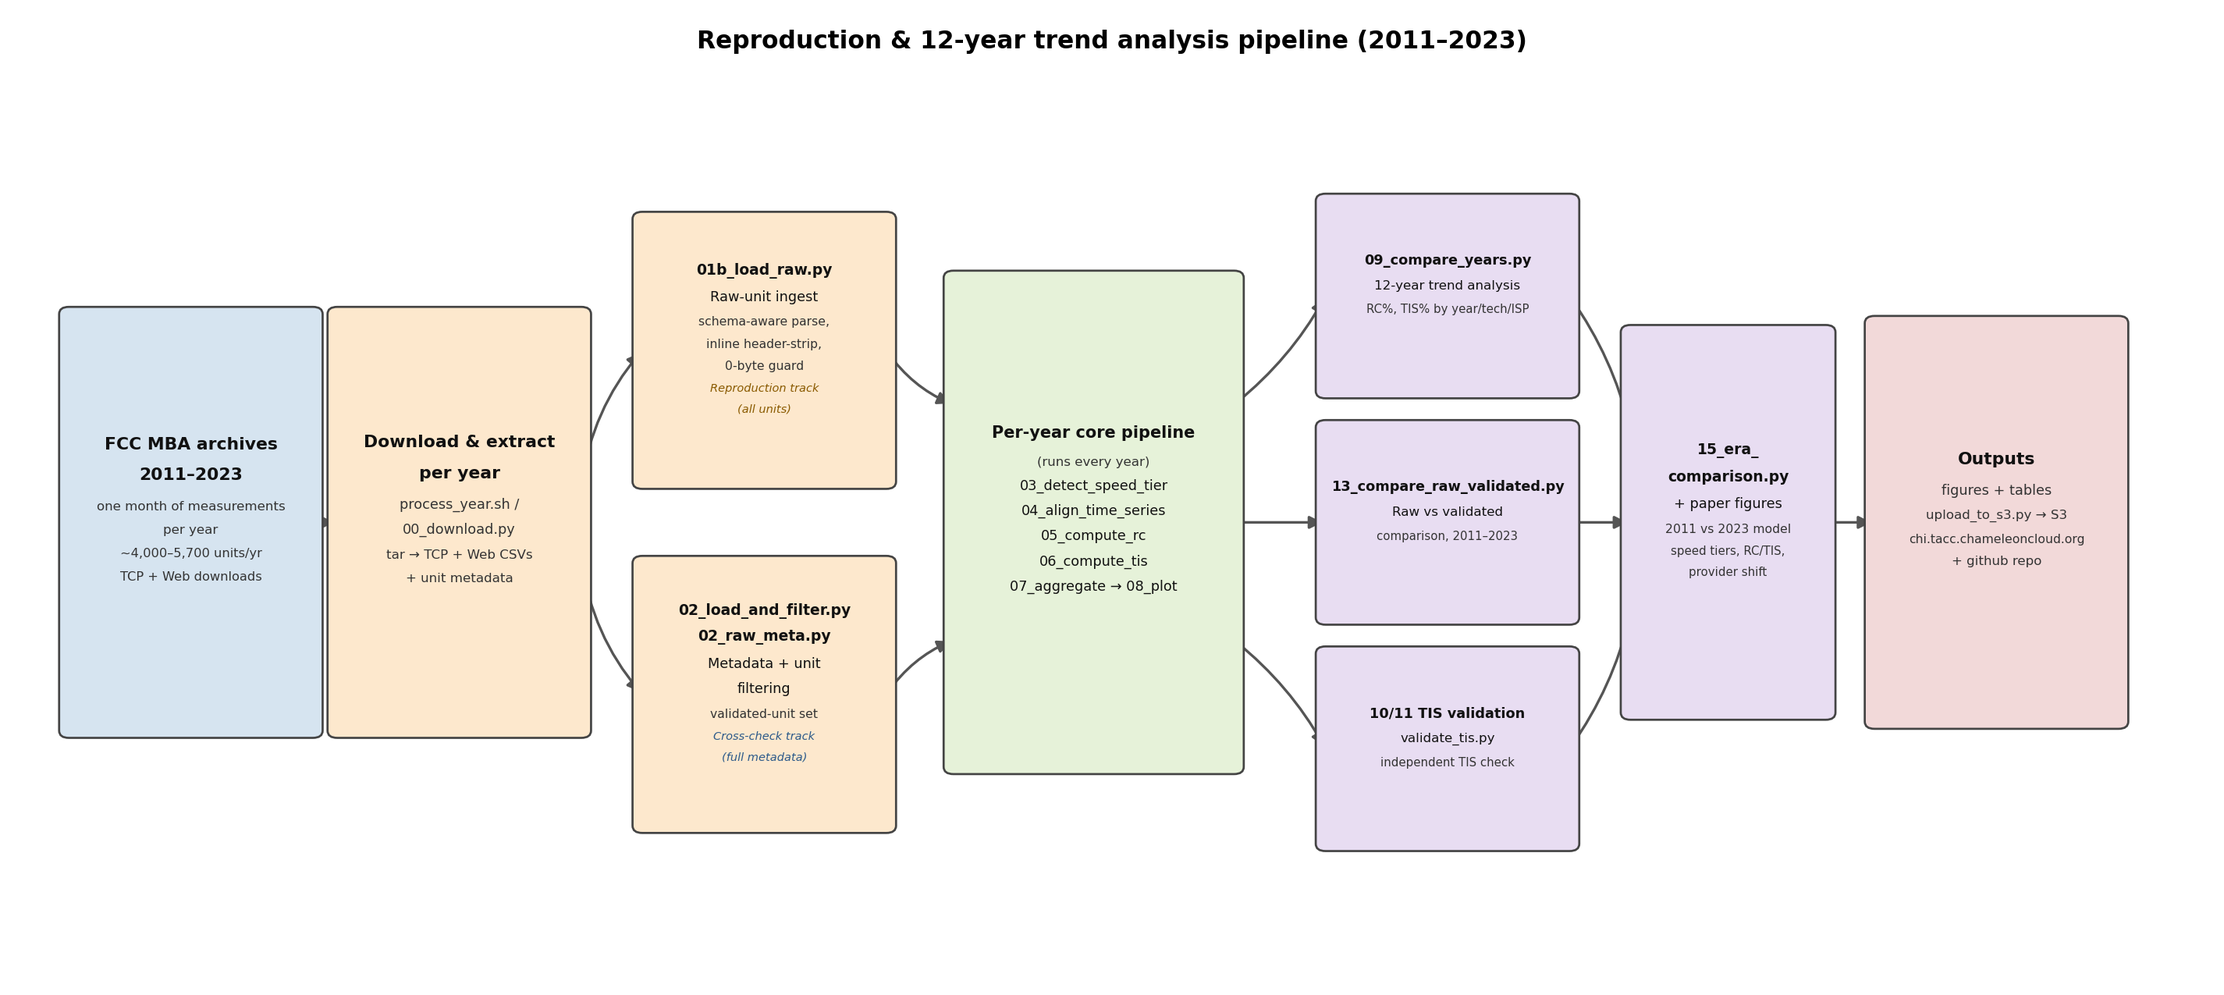
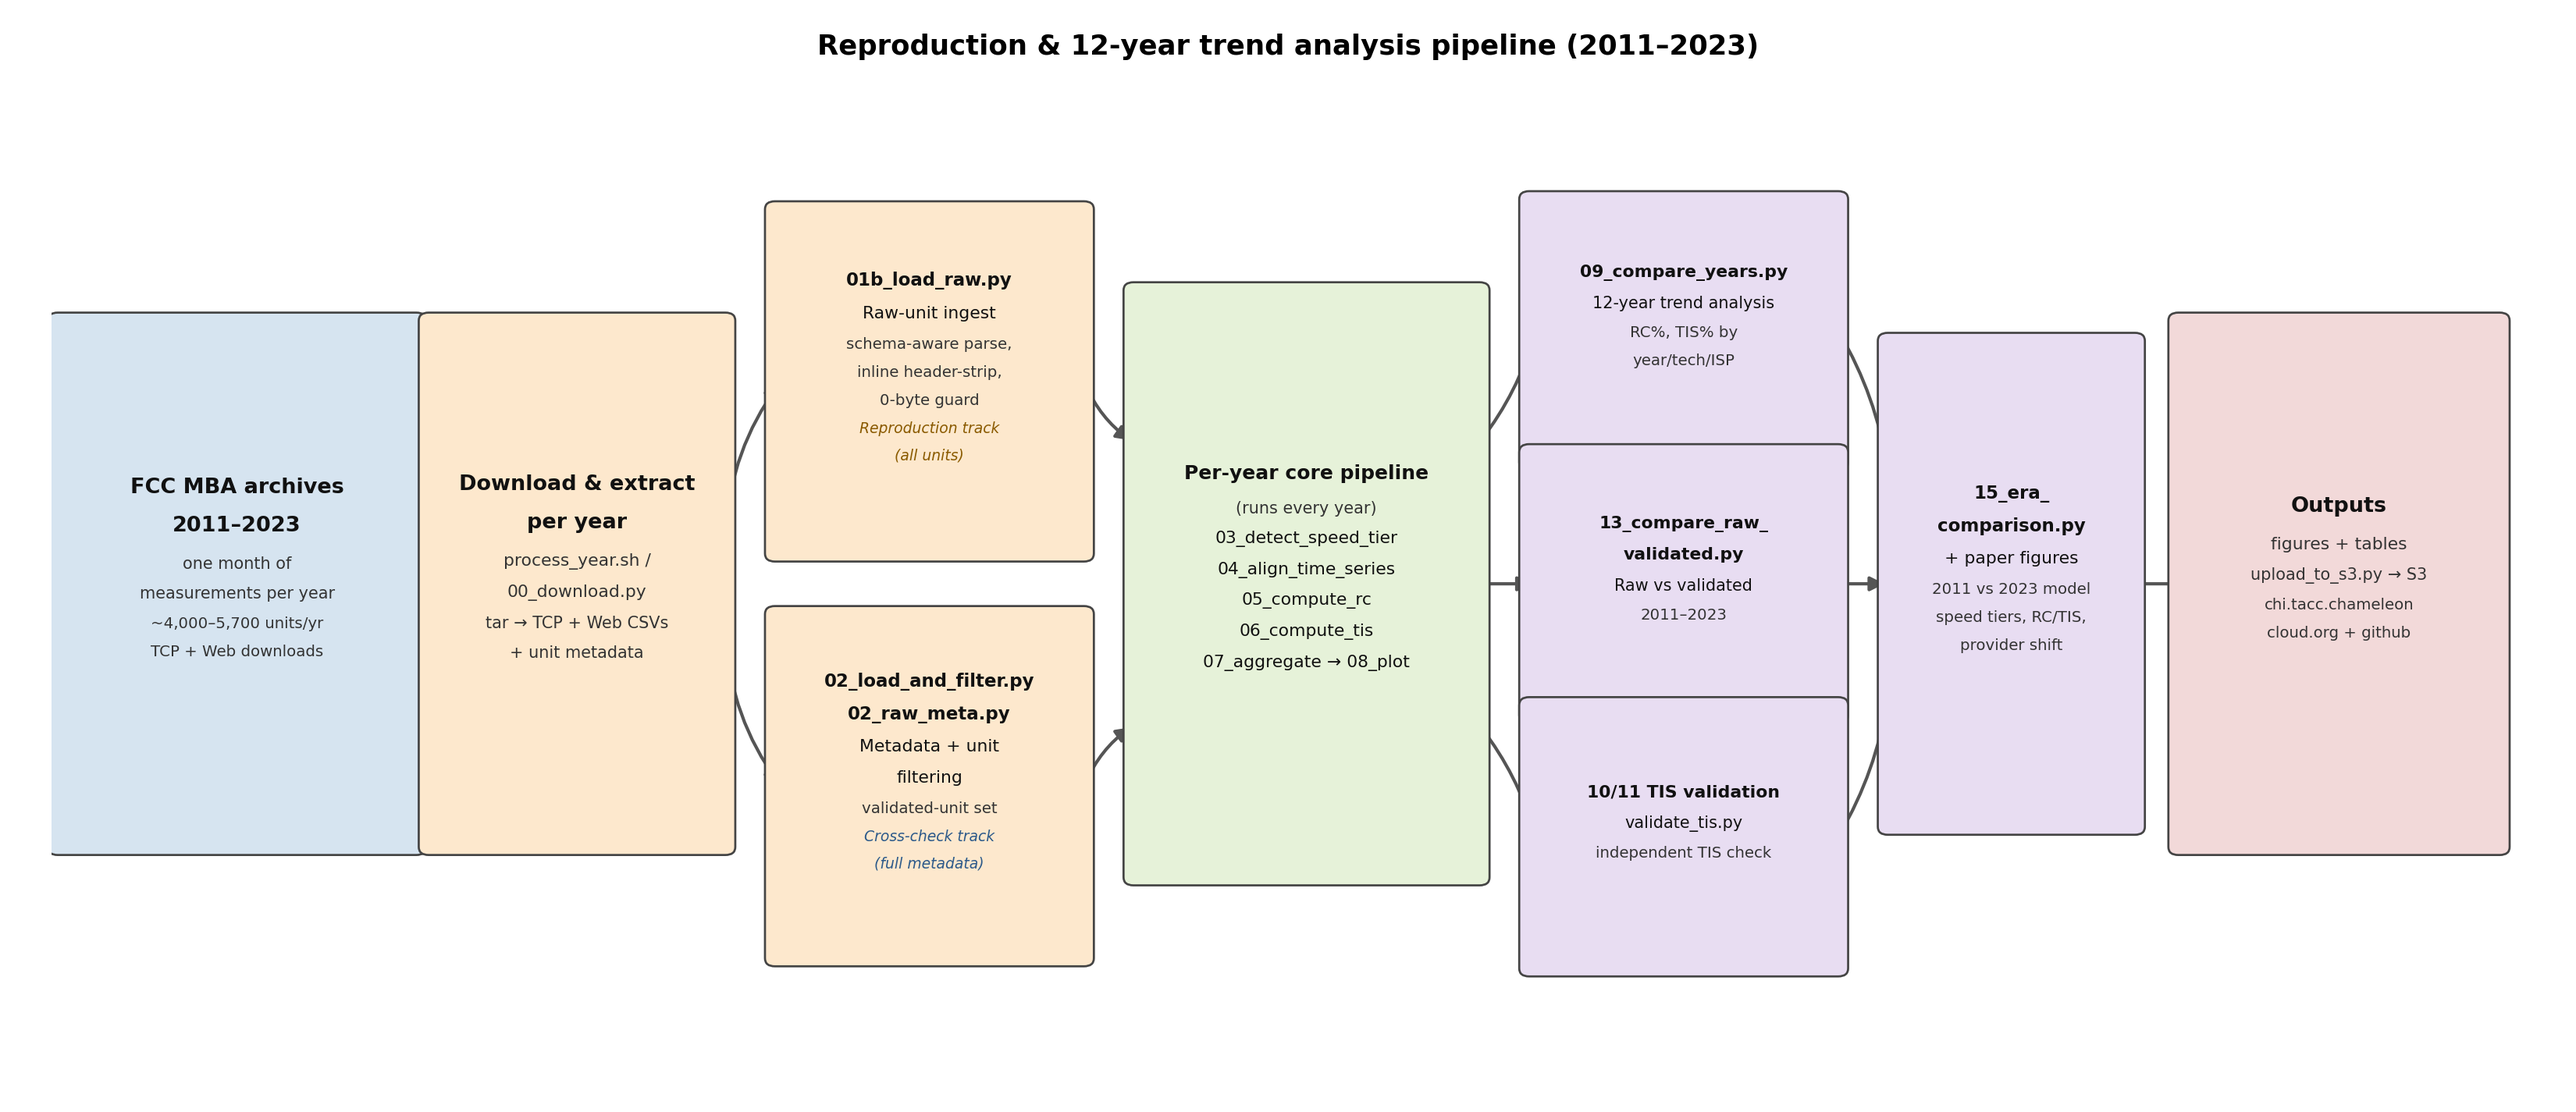
Increase pipeline diagram font sizes and figure size for readability

Changed region(s): [[0.0, 0.1529, 0.9993, 0.8871], [0.3123, 0.0306, 0.687, 0.0612]]

diff --git a/src/16_pipeline_diagram.py b/src/16_pipeline_diagram.py
@@ -13,8 +13,8 @@ C_CORE = "#e6f2d9"
 C_ANA = "#e8ddf2"
 C_OUT = "#f2d9d9"
 
-XLIM, YLIM = 17.5, 10
-FIG_W, FIG_H = 19, 8.5
+XLIM, YLIM = 20, 10
+FIG_W, FIG_H = 22, 9.5
 
 fig, ax = plt.subplots(figsize=(FIG_W, FIG_H))
 ax.set_xlim(0, XLIM)
@@ -33,7 +33,8 @@ def box(x, y, w, h, lines, fc, ec="#444", lw=1.3):
     p = FancyBboxPatch((x - w / 2, y - h / 2), w, h,
                        boxstyle="round,pad=0.08", fc=fc, ec=ec, lw=lw, zorder=3)
     ax.add_patch(p)
-    registry.append((p, "box", lines[0][0][:28], None))
+    # pad extends the drawn box on all sides; account for it in the rect
+    registry.append((p, "box", lines[0][0][:28], None, (x - w / 2 - 0.08, y - h / 2 - 0.08, w + 0.16, h + 0.16)))
     total = sum(line_h(fs) for _, fs, _, _ in lines)
     cur = y + total / 2
     for text, fs, weight, color in lines:
@@ -41,128 +42,130 @@ def box(x, y, w, h, lines, fc, ec="#444", lw=1.3):
         weight = "normal" if "italic" in str(weight) else weight
         t = ax.text(x, cur, text, ha="center", va="center", fontsize=fs,
                     weight=weight, style=style, color=color, zorder=4, linespacing=1.8)
-        registry.append((t, "text", text[:28], p))
+        registry.append((t, "text", text[:28], p, None))
         cur -= line_h(fs)
 
 
-def arrow(x1, y1, x2, y2, lw=1.6, color="#555", ls="-", rad=0.0):
-    a = FancyArrowPatch((x1, y1), (x2, y2), arrowstyle="-|>", mutation_scale=16,
+def arrow(x1, y1, x2, y2, lw=2.0, color="#555", ls="-", rad=0.0):
+    a = FancyArrowPatch((x1, y1), (x2, y2), arrowstyle="-|>", mutation_scale=18,
                         lw=lw, color=color, linestyle=ls, zorder=2,
                         connectionstyle=f"arc3,rad={rad}")
     ax.add_patch(a)
-    registry.append((a, "arrow", "", None))
+    registry.append((a, "arrow", "", None, None))
 
 
 # ============================ Stage A: source ============================
-box(1.2, 5.0, 2.0, 4.6, [
-    ("FCC MBA archives", 10.5, "bold", "#111"),
-    ("2011\u20132023", 10.5, "bold", "#111"),
-    ("one month of measurements", 8, "normal", "#333"),
-    ("per year", 8, "normal", "#333"),
-    ("~4,000\u20135,700 units/yr", 7.8, "normal", "#333"),
-    ("TCP + Web downloads", 7.8, "normal", "#333"),
+box(1.5, 5.0, 2.9, 5.2, [
+    ("FCC MBA archives", 13, "bold", "#111"),
+    ("2011\u20132023", 13, "bold", "#111"),
+    ("one month of", 10, "normal", "#333"),
+    ("measurements per year", 10, "normal", "#333"),
+    ("~4,000\u20135,700 units/yr", 9.5, "normal", "#333"),
+    ("TCP + Web downloads", 9.5, "normal", "#333"),
 ], C_SRC)
 
-arrow(2.2, 5.0, 2.4, 5.0)
+arrow(2.95, 5.0, 3.05, 5.0)
 
 # ============================ Stage B: download ============================
-box(3.4, 5.0, 2.0, 4.6, [
-    ("Download & extract", 10.5, "bold", "#111"),
-    ("per year", 10.5, "bold", "#111"),
-    ("process_year.sh /", 8.5, "normal", "#333"),
-    ("00_download.py", 8.5, "normal", "#333"),
-    ("tar \u2192 TCP + Web CSVs", 8, "normal", "#333"),
-    ("+ unit metadata", 8, "normal", "#333"),
+box(4.25, 5.0, 2.4, 5.2, [
+    ("Download & extract", 13, "bold", "#111"),
+    ("per year", 13, "bold", "#111"),
+    ("process_year.sh /", 10.5, "normal", "#333"),
+    ("00_download.py", 10.5, "normal", "#333"),
+    ("tar \u2192 TCP + Web CSVs", 10, "normal", "#333"),
+    ("+ unit metadata", 10, "normal", "#333"),
 ], C_ING)
 
-arrow(4.4, 5.4, 4.9, 6.9, rad=-0.15)
-arrow(4.4, 4.6, 4.9, 3.1, rad=0.15)
+arrow(5.45, 5.5, 5.9, 7.0, rad=-0.15)
+arrow(5.45, 4.5, 5.9, 3.0, rad=0.15)
 
 # ============================ Stage C: ingest (two tracks) ============================
-box(5.9, 6.9, 2.0, 2.9, [
-    ("01b_load_raw.py", 9, "bold", "#111"),
-    ("Raw-unit ingest", 8.5, "normal", "#111"),
-    ("schema-aware parse,", 7.5, "normal", "#333"),
-    ("inline header-strip,", 7.5, "normal", "#333"),
-    ("0-byte guard", 7.5, "normal", "#333"),
-    ("Reproduction track", 7, "italic", "#8a5a00"),
-    ("(all units)", 7, "italic", "#8a5a00"),
+box(7.1, 7.0, 2.5, 3.4, [
+    ("01b_load_raw.py", 11, "bold", "#111"),
+    ("Raw-unit ingest", 10.5, "normal", "#111"),
+    ("schema-aware parse,", 9.5, "normal", "#333"),
+    ("inline header-strip,", 9.5, "normal", "#333"),
+    ("0-byte guard", 9.5, "normal", "#333"),
+    ("Reproduction track", 9, "italic", "#8a5a00"),
+    ("(all units)", 9, "italic", "#8a5a00"),
 ], C_ING)
 
-box(5.9, 3.1, 2.0, 2.9, [
-    ("02_load_and_filter.py", 9, "bold", "#111"),
-    ("02_raw_meta.py", 9, "bold", "#111"),
-    ("Metadata + unit", 8.5, "normal", "#111"),
-    ("filtering", 8.5, "normal", "#111"),
-    ("validated-unit set", 7.5, "normal", "#333"),
-    ("Cross-check track", 7, "italic", "#2c5a8a"),
-    ("(full metadata)", 7, "italic", "#2c5a8a"),
+box(7.1, 3.0, 2.5, 3.4, [
+    ("02_load_and_filter.py", 11, "bold", "#111"),
+    ("02_raw_meta.py", 11, "bold", "#111"),
+    ("Metadata + unit", 10.5, "normal", "#111"),
+    ("filtering", 10.5, "normal", "#111"),
+    ("validated-unit set", 9.5, "normal", "#333"),
+    ("Cross-check track", 9, "italic", "#2c5a8a"),
+    ("(full metadata)", 9, "italic", "#2c5a8a"),
 ], C_ING)
 
-arrow(6.9, 6.9, 7.45, 6.3, rad=0.15)
-arrow(6.9, 3.1, 7.45, 3.7, rad=-0.15)
+arrow(8.35, 7.0, 8.75, 6.4, rad=0.15)
+arrow(8.35, 3.0, 8.75, 3.6, rad=-0.15)
 
 # ============================ Stage D: per-year core ============================
-box(8.6, 5.0, 2.3, 5.4, [
-    ("Per-year core pipeline", 10, "bold", "#111"),
-    ("(runs every year)", 8, "normal", "#333"),
-    ("03_detect_speed_tier", 8.5, "normal", "#111"),
-    ("04_align_time_series", 8.5, "normal", "#111"),
-    ("05_compute_rc", 8.5, "normal", "#111"),
-    ("06_compute_tis", 8.5, "normal", "#111"),
-    ("07_aggregate \u2192 08_plot", 8.5, "normal", "#111"),
+box(10.15, 5.0, 2.8, 5.8, [
+    ("Per-year core pipeline", 12, "bold", "#111"),
+    ("(runs every year)", 10, "normal", "#333"),
+    ("03_detect_speed_tier", 10.5, "normal", "#111"),
+    ("04_align_time_series", 10.5, "normal", "#111"),
+    ("05_compute_rc", 10.5, "normal", "#111"),
+    ("06_compute_tis", 10.5, "normal", "#111"),
+    ("07_aggregate \u2192 08_plot", 10.5, "normal", "#111"),
 ], C_CORE)
 
-arrow(9.75, 6.3, 10.5, 7.5, rad=0.1)
-arrow(9.75, 5.0, 10.5, 5.0)
-arrow(9.75, 3.7, 10.5, 2.5, rad=-0.1)
+arrow(11.55, 6.4, 12.0, 7.5, rad=0.1)
+arrow(11.55, 5.0, 12.0, 5.0)
+arrow(11.55, 3.6, 12.0, 2.5, rad=-0.1)
 
 # ============================ Stage E: cross-year ============================
-box(11.5, 7.5, 2.0, 2.1, [
-    ("09_compare_years.py", 8.5, "bold", "#111"),
-    ("12-year trend analysis", 8, "normal", "#111"),
-    ("RC%, TIS% by year/tech/ISP", 7.2, "normal", "#333"),
+box(13.2, 7.5, 2.5, 2.6, [
+    ("09_compare_years.py", 10.5, "bold", "#111"),
+    ("12-year trend analysis", 10, "normal", "#111"),
+    ("RC%, TIS% by", 9.5, "normal", "#333"),
+    ("year/tech/ISP", 9.5, "normal", "#333"),
 ], C_ANA)
 
-box(11.5, 5.0, 2.0, 2.1, [
-    ("13_compare_raw_validated.py", 8.5, "bold", "#111"),
-    ("Raw vs validated", 8, "normal", "#111"),
-    ("comparison, 2011\u20132023", 7.2, "normal", "#333"),
+box(13.2, 5.0, 2.5, 2.6, [
+    ("13_compare_raw_", 10.5, "bold", "#111"),
+    ("validated.py", 10.5, "bold", "#111"),
+    ("Raw vs validated", 10, "normal", "#111"),
+    ("2011\u20132023", 9.5, "normal", "#333"),
 ], C_ANA)
 
-box(11.5, 2.5, 2.0, 2.1, [
-    ("10/11 TIS validation", 8.5, "bold", "#111"),
-    ("validate_tis.py", 8, "normal", "#111"),
-    ("independent TIS check", 7.2, "normal", "#333"),
+box(13.2, 2.5, 2.5, 2.6, [
+    ("10/11 TIS validation", 10.5, "bold", "#111"),
+    ("validate_tis.py", 10, "normal", "#111"),
+    ("independent TIS check", 9.5, "normal", "#333"),
 ], C_ANA)
 
-arrow(12.5, 7.5, 13.0, 6.0, rad=-0.1)
-arrow(12.5, 5.0, 13.0, 5.0)
-arrow(12.5, 2.5, 13.0, 4.0, rad=0.1)
+arrow(14.45, 7.5, 14.85, 6.1, rad=-0.1)
+arrow(14.45, 5.0, 14.85, 5.0)
+arrow(14.45, 2.5, 14.85, 3.9, rad=0.1)
 
 # ============================ Stage F: synthesis ============================
-box(13.8, 5.0, 1.6, 4.2, [
-    ("15_era_", 9, "bold", "#111"),
-    ("comparison.py", 9, "bold", "#111"),
-    ("+ paper figures", 8.5, "normal", "#111"),
-    ("2011 vs 2023 model", 7.5, "normal", "#333"),
-    ("speed tiers, RC/TIS,", 7.2, "normal", "#333"),
-    ("provider shift", 7.2, "normal", "#333"),
+box(15.85, 5.0, 2.0, 4.8, [
+    ("15_era_", 11, "bold", "#111"),
+    ("comparison.py", 11, "bold", "#111"),
+    ("+ paper figures", 10.5, "normal", "#111"),
+    ("2011 vs 2023 model", 9.5, "normal", "#333"),
+    ("speed tiers, RC/TIS,", 9.5, "normal", "#333"),
+    ("provider shift", 9.5, "normal", "#333"),
 ], C_ANA)
 
-arrow(14.6, 5.0, 15.0, 5.0)
+arrow(16.85, 5.0, 17.3, 5.0)
 
 # ============================ Stage G: outputs ============================
-box(16.0, 5.0, 2.0, 4.4, [
-    ("Outputs", 10.5, "bold", "#111"),
-    ("figures + tables", 8.5, "normal", "#333"),
-    ("upload_to_s3.py \u2192 S3", 8, "normal", "#333"),
-    ("chi.tacc.chameleoncloud.org", 7.5, "normal", "#333"),
-    ("+ github repo", 8, "normal", "#333"),
+box(18.5, 5.0, 2.6, 5.2, [
+    ("Outputs", 13, "bold", "#111"),
+    ("figures + tables", 10.5, "normal", "#333"),
+    ("upload_to_s3.py \u2192 S3", 10, "normal", "#333"),
+    ("chi.tacc.chameleon", 9.5, "normal", "#333"),
+    ("cloud.org + github", 9.5, "normal", "#333"),
 ], C_OUT)
 
 fig.suptitle("Reproduction & 12-year trend analysis pipeline (2011\u20132023)",
-             fontsize=15, weight="bold", y=0.97)
+             fontsize=17, weight="bold", y=0.97)
 fig.subplots_adjust(left=0.02, right=0.98, top=0.93, bottom=0.02)
 
 # ============================ overlap check ============================
@@ -173,27 +176,38 @@ def t_rect(t, pad=0):
     bb = t.get_window_extent(renderer)
     return (bb.x0 - pad, bb.y0 - pad, bb.x1 + pad, bb.y1 + pad)
 
-def r_rect(p):
-    bb = p.get_window_extent(renderer)
-    return (bb.x0, bb.y0, bb.x1, bb.y1)
+def r_rect(p, tag):
+    # boxes are stored as data rects; convert to window coords for comparison
+    bx0, by0, bw, bh = tag
+    disp = ax.transData.transform([(bx0, by0), (bx0 + bw, by0 + bh)])
+    return (disp[0][0], disp[0][1], disp[1][0], disp[1][1])
 
 def overlap(a, b):
     return not (a[2] <= b[0] or b[2] <= a[0] or a[3] <= b[1] or b[3] <= a[1])
 
 problems = []
 
-texts = [(t, tag, owner) for t, kind, tag, owner in registry if kind == "text"]
-boxes_ = [(p, tag) for p, kind, tag, _ in registry if kind == "box"]
-arrows_ = [(a, tag) for a, kind, tag, _ in registry if kind == "arrow"]
+texts = [(t, tag, owner) for t, kind, tag, owner, _ in registry if kind == "text"]
+boxes_ = [(p, tag, rect) for p, kind, tag, _, rect in registry if kind == "box"]
+arrows_ = [(a, tag) for a, kind, tag, _, _ in registry if kind == "arrow"]
 
 for t, tag, owner in texts:
     if not tag:
         continue
     tr = t_rect(t)
-    for p, btag in boxes_:
+    # text must fit inside its own box
+    if owner is not None:
+        for p, btag, rect in boxes_:
+            if p is owner:
+                bx0, by0, bx1, by1 = r_rect(p, rect)
+                # tr = (left, bottom, right, top)
+                if not (bx0 <= tr[0] and bx1 >= tr[2] and by0 <= tr[1] and by1 >= tr[3]):
+                    problems.append(f"TEXT EXCEEDS OWN BOX: '{tag}'")
+                break
+    for p, btag, rect in boxes_:
         if p is owner:
             continue
-        if overlap(tr, r_rect(p)):
+        if overlap(tr, r_rect(p, rect)):
             problems.append(f"TEXT OUTSIDE/OVER BOX: '{tag}' vs box '{btag}'")
 
 for i in range(len(texts)):
